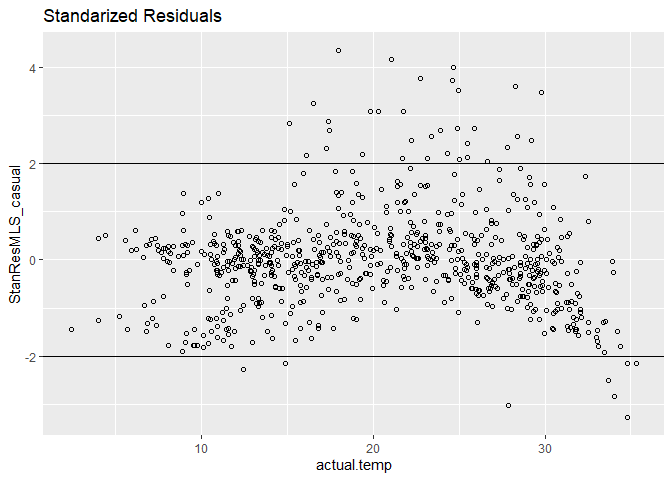
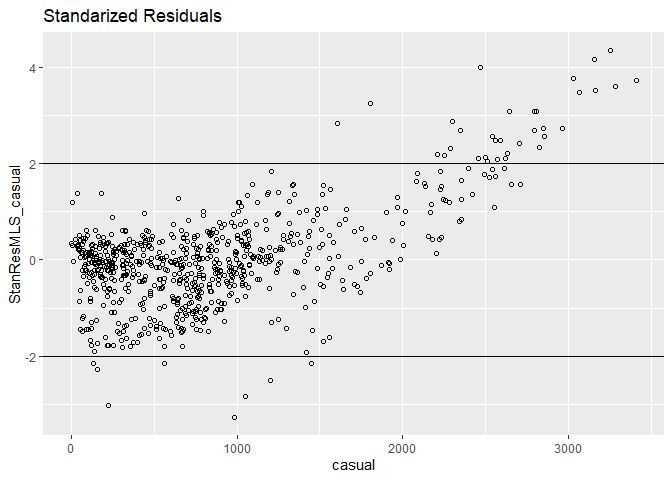
LAB6

diff --git a/Bike-rentals.md b/Bike-rentals.md
@@ -276,14 +276,14 @@ ggplot(bikedata, aes(x = actual.temp)) + geom_point(aes(y = registered,  color =
 
 ``` r
 StanResQLS_casual <- rstandard(m.quadls_casual)
-ggplot(bikedata, aes(x = actual.temp, y=StanResQLS_casual)) + geom_point(shape = 1) + geom_hline(yintercept = -2) + geom_hline(yintercept = 2) + ggtitle("Standarized Residuals")
+ggplot(bikedata, aes(x = casual, y=StanResQLS_casual)) + geom_point(shape = 1) + geom_hline(yintercept = -2) + geom_hline(yintercept = 2) + ggtitle("Standarized Residuals")
 ```
 
 ![](Bike-rentals_files/figure-gfm/unnamed-chunk-4-1.png)<!-- -->
 
 ``` r
 StanResQLS_registered <- rstandard(m.quadls_registered)
-ggplot(bikedata, aes(x = actual.temp, y=StanResQLS_registered)) + geom_point(shape = 1) + geom_hline(yintercept = -2) + geom_hline(yintercept = 2)+ ggtitle("Standarized Residuals")
+ggplot(bikedata, aes(x = registered, y=StanResQLS_registered)) + geom_point(shape = 1) + geom_hline(yintercept = -2) + geom_hline(yintercept = 2)+ ggtitle("Standarized Residuals")
 ```
 
 ![](Bike-rentals_files/figure-gfm/unnamed-chunk-5-1.png)<!-- -->
@@ -458,14 +458,14 @@ ggpairs(data, lower = list(continuous = wrap("points", alpha = 0.3, size= 0.1)))
 
 ``` r
 StanResMLS_registered <- rstandard(m.mls_registered)
-ggplot(bikedata, aes(x = actual.temp, y=StanResMLS_registered)) + geom_point(shape = 1) + geom_hline(yintercept = -2) + geom_hline(yintercept = 2)+ ggtitle("Standarized Residuals")
+ggplot(bikedata, aes(x = registered, y=StanResMLS_registered)) + geom_point(shape = 1) + geom_hline(yintercept = -2) + geom_hline(yintercept = 2)+ ggtitle("Standarized Residuals")
 ```
 
 ![](Bike-rentals_files/figure-gfm/unnamed-chunk-13-1.png)<!-- -->
 
 ``` r
 StanResMLS_casual <- rstandard(m.mls_casual)
-ggplot(bikedata, aes(x = actual.temp, y=StanResMLS_casual)) + geom_point(shape = 1) + geom_hline(yintercept = -2) + geom_hline(yintercept = 2)+ ggtitle("Standarized Residuals")
+ggplot(bikedata, aes(x = casual, y=StanResMLS_casual)) + geom_point(shape = 1) + geom_hline(yintercept = -2) + geom_hline(yintercept = 2)+ ggtitle("Standarized Residuals")
 ```
 
 ![](Bike-rentals_files/figure-gfm/unnamed-chunk-14-1.png)<!-- -->
